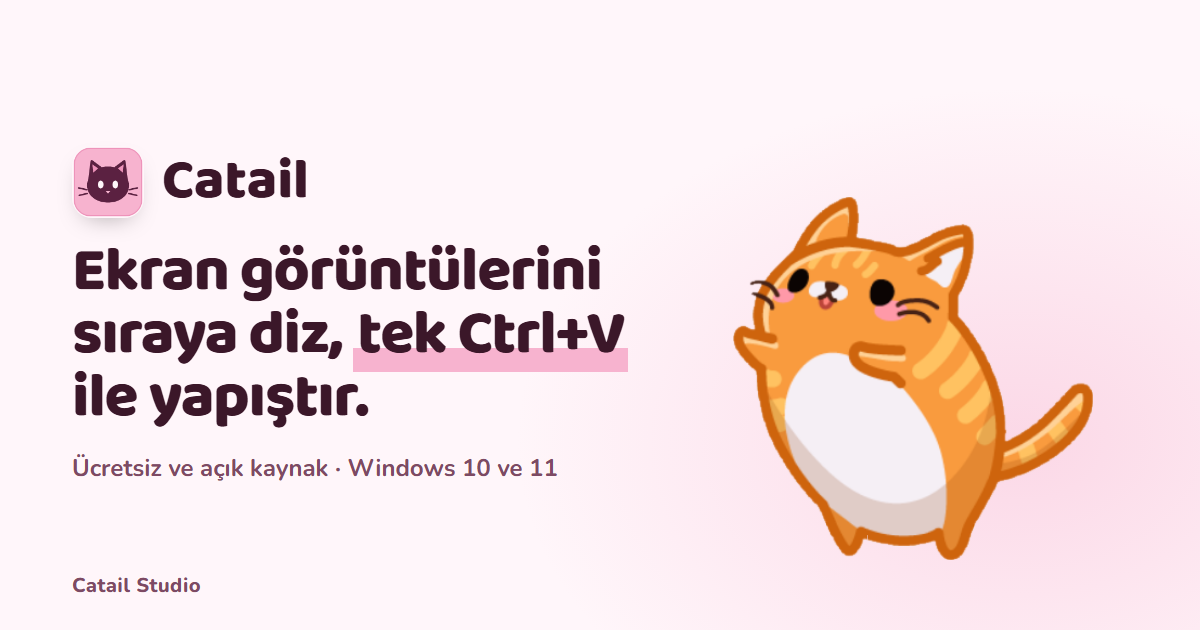
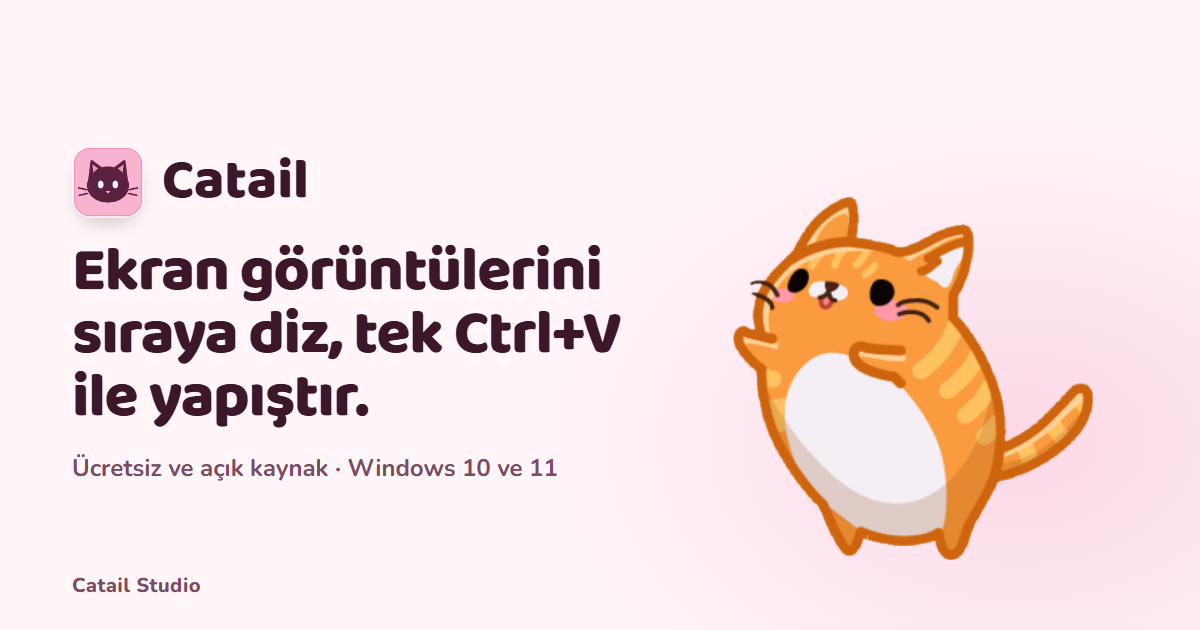
Başlıklardaki vurgu çizgisi kaldırıldı

Changed region(s): [[0.2775, 0.4825, 0.5242, 0.6032]]

diff --git a/site/share/card.html b/site/share/card.html
@@ -66,12 +66,6 @@
         letter-spacing: -0.02em;
       }
 
-      h1 mark {
-        padding: 0 0.06em;
-        background: linear-gradient(transparent 64%, var(--accent) 64% 88%, transparent 88%);
-        color: inherit;
-      }
-
       p {
         margin: 0;
         color: var(--muted);
@@ -139,12 +133,12 @@
     <script>
       const WORDS = {
         studio: {
-          tr: { title: "Windows için <mark>kedili</mark> küçük araçlar.", lead: "Açık kaynak, reklamsız, hesap istemeyen, bilgisayarında yerel çalışan." },
-          en: { title: "Small Windows tools, <mark>with cats</mark>.", lead: "Open source, no ads, no account, running on your own computer." },
+          tr: { title: "Windows için kedili küçük araçlar.", lead: "Açık kaynak, reklamsız, hesap istemeyen, bilgisayarında yerel çalışan." },
+          en: { title: "Small Windows tools, with cats.", lead: "Open source, no ads, no account, running on your own computer." },
         },
         catail: {
-          tr: { title: "Ekran görüntülerini sıraya diz, <mark>tek Ctrl+V</mark> ile yapıştır.", lead: "Ücretsiz ve açık kaynak · Windows 10 ve 11" },
-          en: { title: "Queue up your screenshots, paste them with <mark>one Ctrl+V</mark>.", lead: "Free and open source · Windows 10 and 11" },
+          tr: { title: "Ekran görüntülerini sıraya diz, tek Ctrl+V ile yapıştır.", lead: "Ücretsiz ve açık kaynak · Windows 10 ve 11" },
+          en: { title: "Queue up your screenshots, paste them with one Ctrl+V.", lead: "Free and open source · Windows 10 and 11" },
         },
       };
       const params = new URLSearchParams(location.search);

diff --git a/public/catail/index.html b/public/catail/index.html
@@ -123,7 +123,7 @@
           <span aria-current="page">Catail</span>
         </nav>
         <span class="ui-eyebrow">Windows için · ücretsiz · açık kaynak</span>
-        <h1 class="ui-title ui-title--hero">Ekran görüntülerini sıraya diz, <mark>tek Ctrl+V</mark> ile yapıştır.</h1>
+        <h1 class="ui-title ui-title--hero">Ekran görüntülerini sıraya diz, tek Ctrl+V ile yapıştır.</h1>
         <p class="ui-lead">ChatGPT'ye, WhatsApp'a ya da bir belgeye on görsel mi atacaksın? Pencereler arasında gidip gelme. Catail aldığın görüntüleri, kopyaladığın metinleri ve dosyaları sırayla tutar, sonra hepsini aynı sırayla bırakır.</p>
         <div class="ui-actions ui-actions--center">
           <a class="ui-button ui-button--primary ui-button--large" data-download href="https://github.com/umutugrasan/catail/releases/latest">

diff --git a/site/pages/catail/index.html b/site/pages/catail/index.html
@@ -28,7 +28,7 @@
           <span aria-current="page">Catail</span>
         </nav>
         <span class="ui-eyebrow">Windows için · ücretsiz · açık kaynak</span>
-        <h1 class="ui-title ui-title--hero">Ekran görüntülerini sıraya diz, <mark>tek Ctrl+V</mark> ile yapıştır.</h1>
+        <h1 class="ui-title ui-title--hero">Ekran görüntülerini sıraya diz, tek Ctrl+V ile yapıştır.</h1>
         <p class="ui-lead">ChatGPT'ye, WhatsApp'a ya da bir belgeye on görsel mi atacaksın? Pencereler arasında gidip gelme. Catail aldığın görüntüleri, kopyaladığın metinleri ve dosyaları sırayla tutar, sonra hepsini aynı sırayla bırakır.</p>
         <div class="ui-actions ui-actions--center">
           <a class="ui-button ui-button--primary ui-button--large" data-download href="https://github.com/umutugrasan/catail/releases/latest">

diff --git a/public/en/catail/index.html b/public/en/catail/index.html
@@ -123,7 +123,7 @@
           <span aria-current="page">Catail</span>
         </nav>
         <span class="ui-eyebrow">For Windows · free · open source</span>
-        <h1 class="ui-title ui-title--hero">Queue up your screenshots, paste them with <mark>one Ctrl+V</mark>.</h1>
+        <h1 class="ui-title ui-title--hero">Queue up your screenshots, paste them with one Ctrl+V.</h1>
         <p class="ui-lead">Sending ten images to ChatGPT, WhatsApp or a document? Stop flipping between windows. Catail keeps your screenshots, copied text and files in a queue, then drops them all in the same order.</p>
         <div class="ui-actions ui-actions--center">
           <a class="ui-button ui-button--primary ui-button--large" data-download href="https://github.com/umutugrasan/catail/releases/latest">

diff --git a/site/pages/en/catail/index.html b/site/pages/en/catail/index.html
@@ -28,7 +28,7 @@
           <span aria-current="page">Catail</span>
         </nav>
         <span class="ui-eyebrow">For Windows · free · open source</span>
-        <h1 class="ui-title ui-title--hero">Queue up your screenshots, paste them with <mark>one Ctrl+V</mark>.</h1>
+        <h1 class="ui-title ui-title--hero">Queue up your screenshots, paste them with one Ctrl+V.</h1>
         <p class="ui-lead">Sending ten images to ChatGPT, WhatsApp or a document? Stop flipping between windows. Catail keeps your screenshots, copied text and files in a queue, then drops them all in the same order.</p>
         <div class="ui-actions ui-actions--center">
           <a class="ui-button ui-button--primary ui-button--large" data-download href="https://github.com/umutugrasan/catail/releases/latest">

diff --git a/site/pages/index.html b/site/pages/index.html
@@ -27,7 +27,7 @@
             <img class="logo logo--light-ink" src="{{root}}assets/catail-studio-light.png" alt="" width="298" height="44" />
           </span>
           <div class="ui-whiskered">
-            <h1 class="ui-title ui-title--display">Windows için <mark>kedili</mark><br />
+            <h1 class="ui-title ui-title--display">Windows için kedili<br />
               küçük araçlar.
             </h1>
           </div>

diff --git a/public/index.html b/public/index.html
@@ -115,7 +115,7 @@
             <img class="logo logo--light-ink" src="assets/catail-studio-light.png" alt="" width="298" height="44" />
           </span>
           <div class="ui-whiskered">
-            <h1 class="ui-title ui-title--display">Windows için <mark>kedili</mark><br />
+            <h1 class="ui-title ui-title--display">Windows için kedili<br />
               küçük araçlar.
             </h1>
           </div>

diff --git a/public/en/index.html b/public/en/index.html
@@ -116,7 +116,7 @@
           </span>
           <div class="ui-whiskered">
             <h1 class="ui-title ui-title--display">Small Windows tools,<br />
-              <mark>with cats</mark>.
+              with cats.
             </h1>
           </div>
           <div class="ui-actions ui-actions--center">

diff --git a/site/pages/en/index.html b/site/pages/en/index.html
@@ -28,7 +28,7 @@
           </span>
           <div class="ui-whiskered">
             <h1 class="ui-title ui-title--display">Small Windows tools,<br />
-              <mark>with cats</mark>.
+              with cats.
             </h1>
           </div>
           <div class="ui-actions ui-actions--center">
